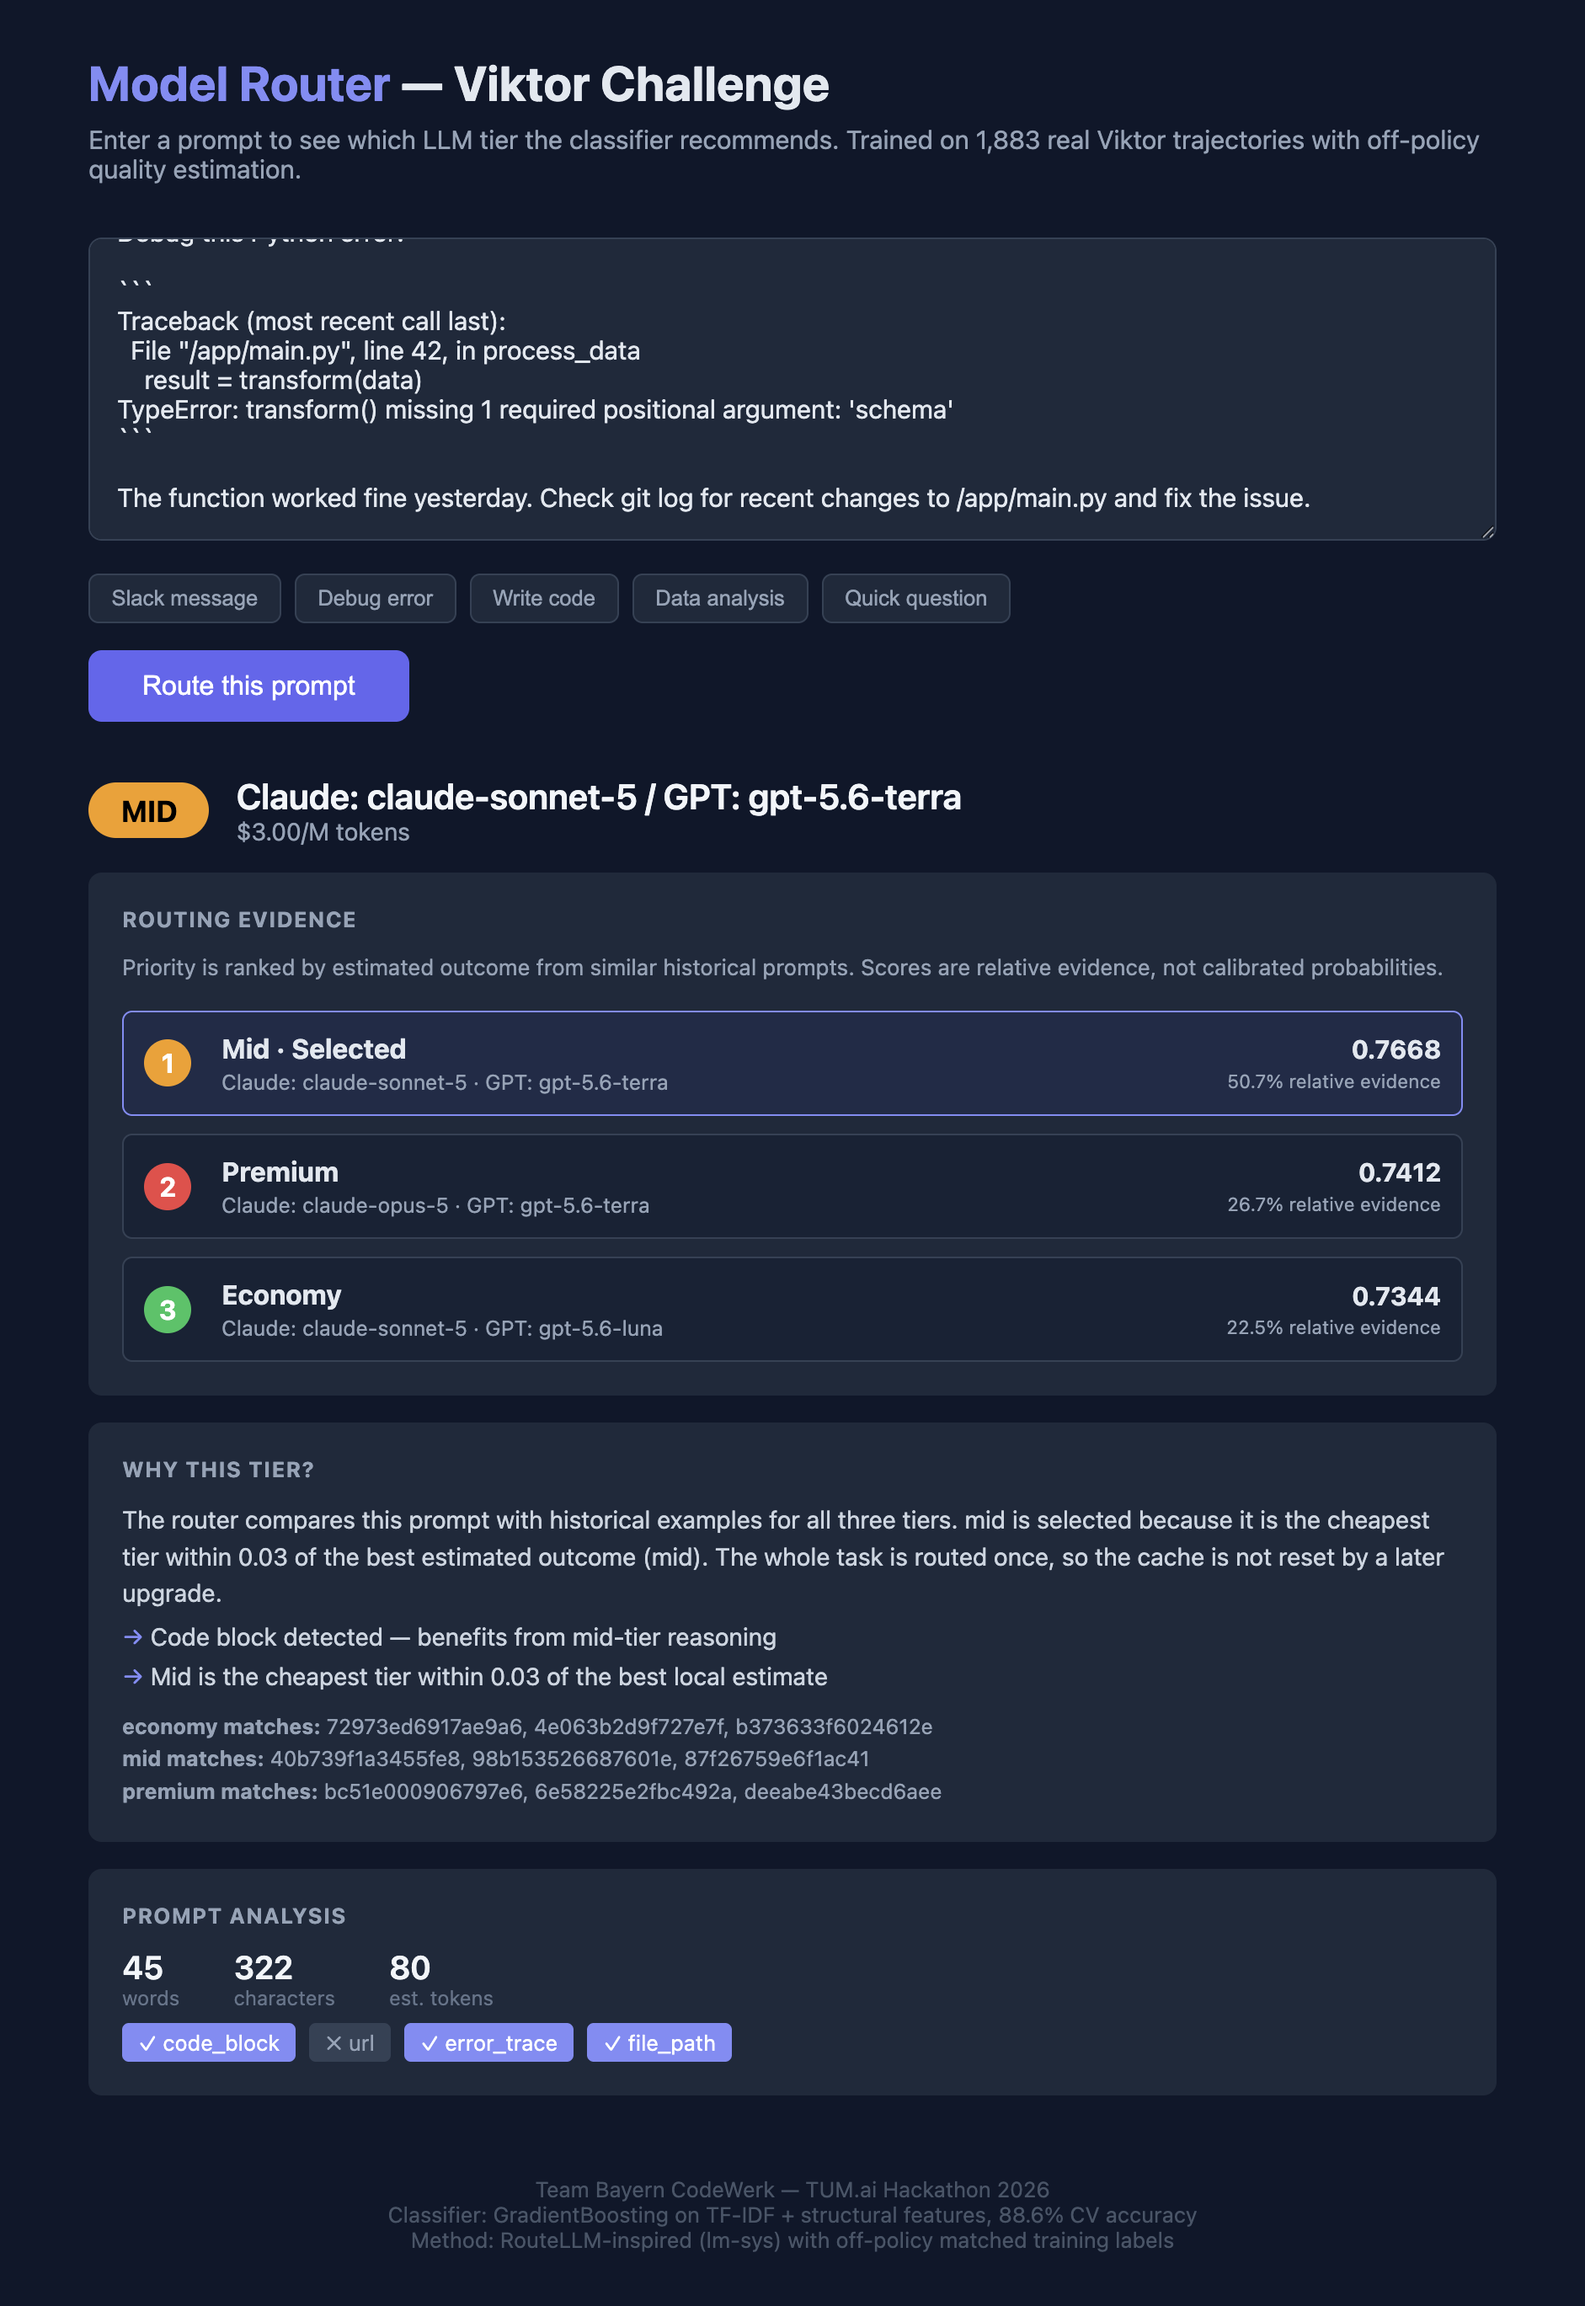
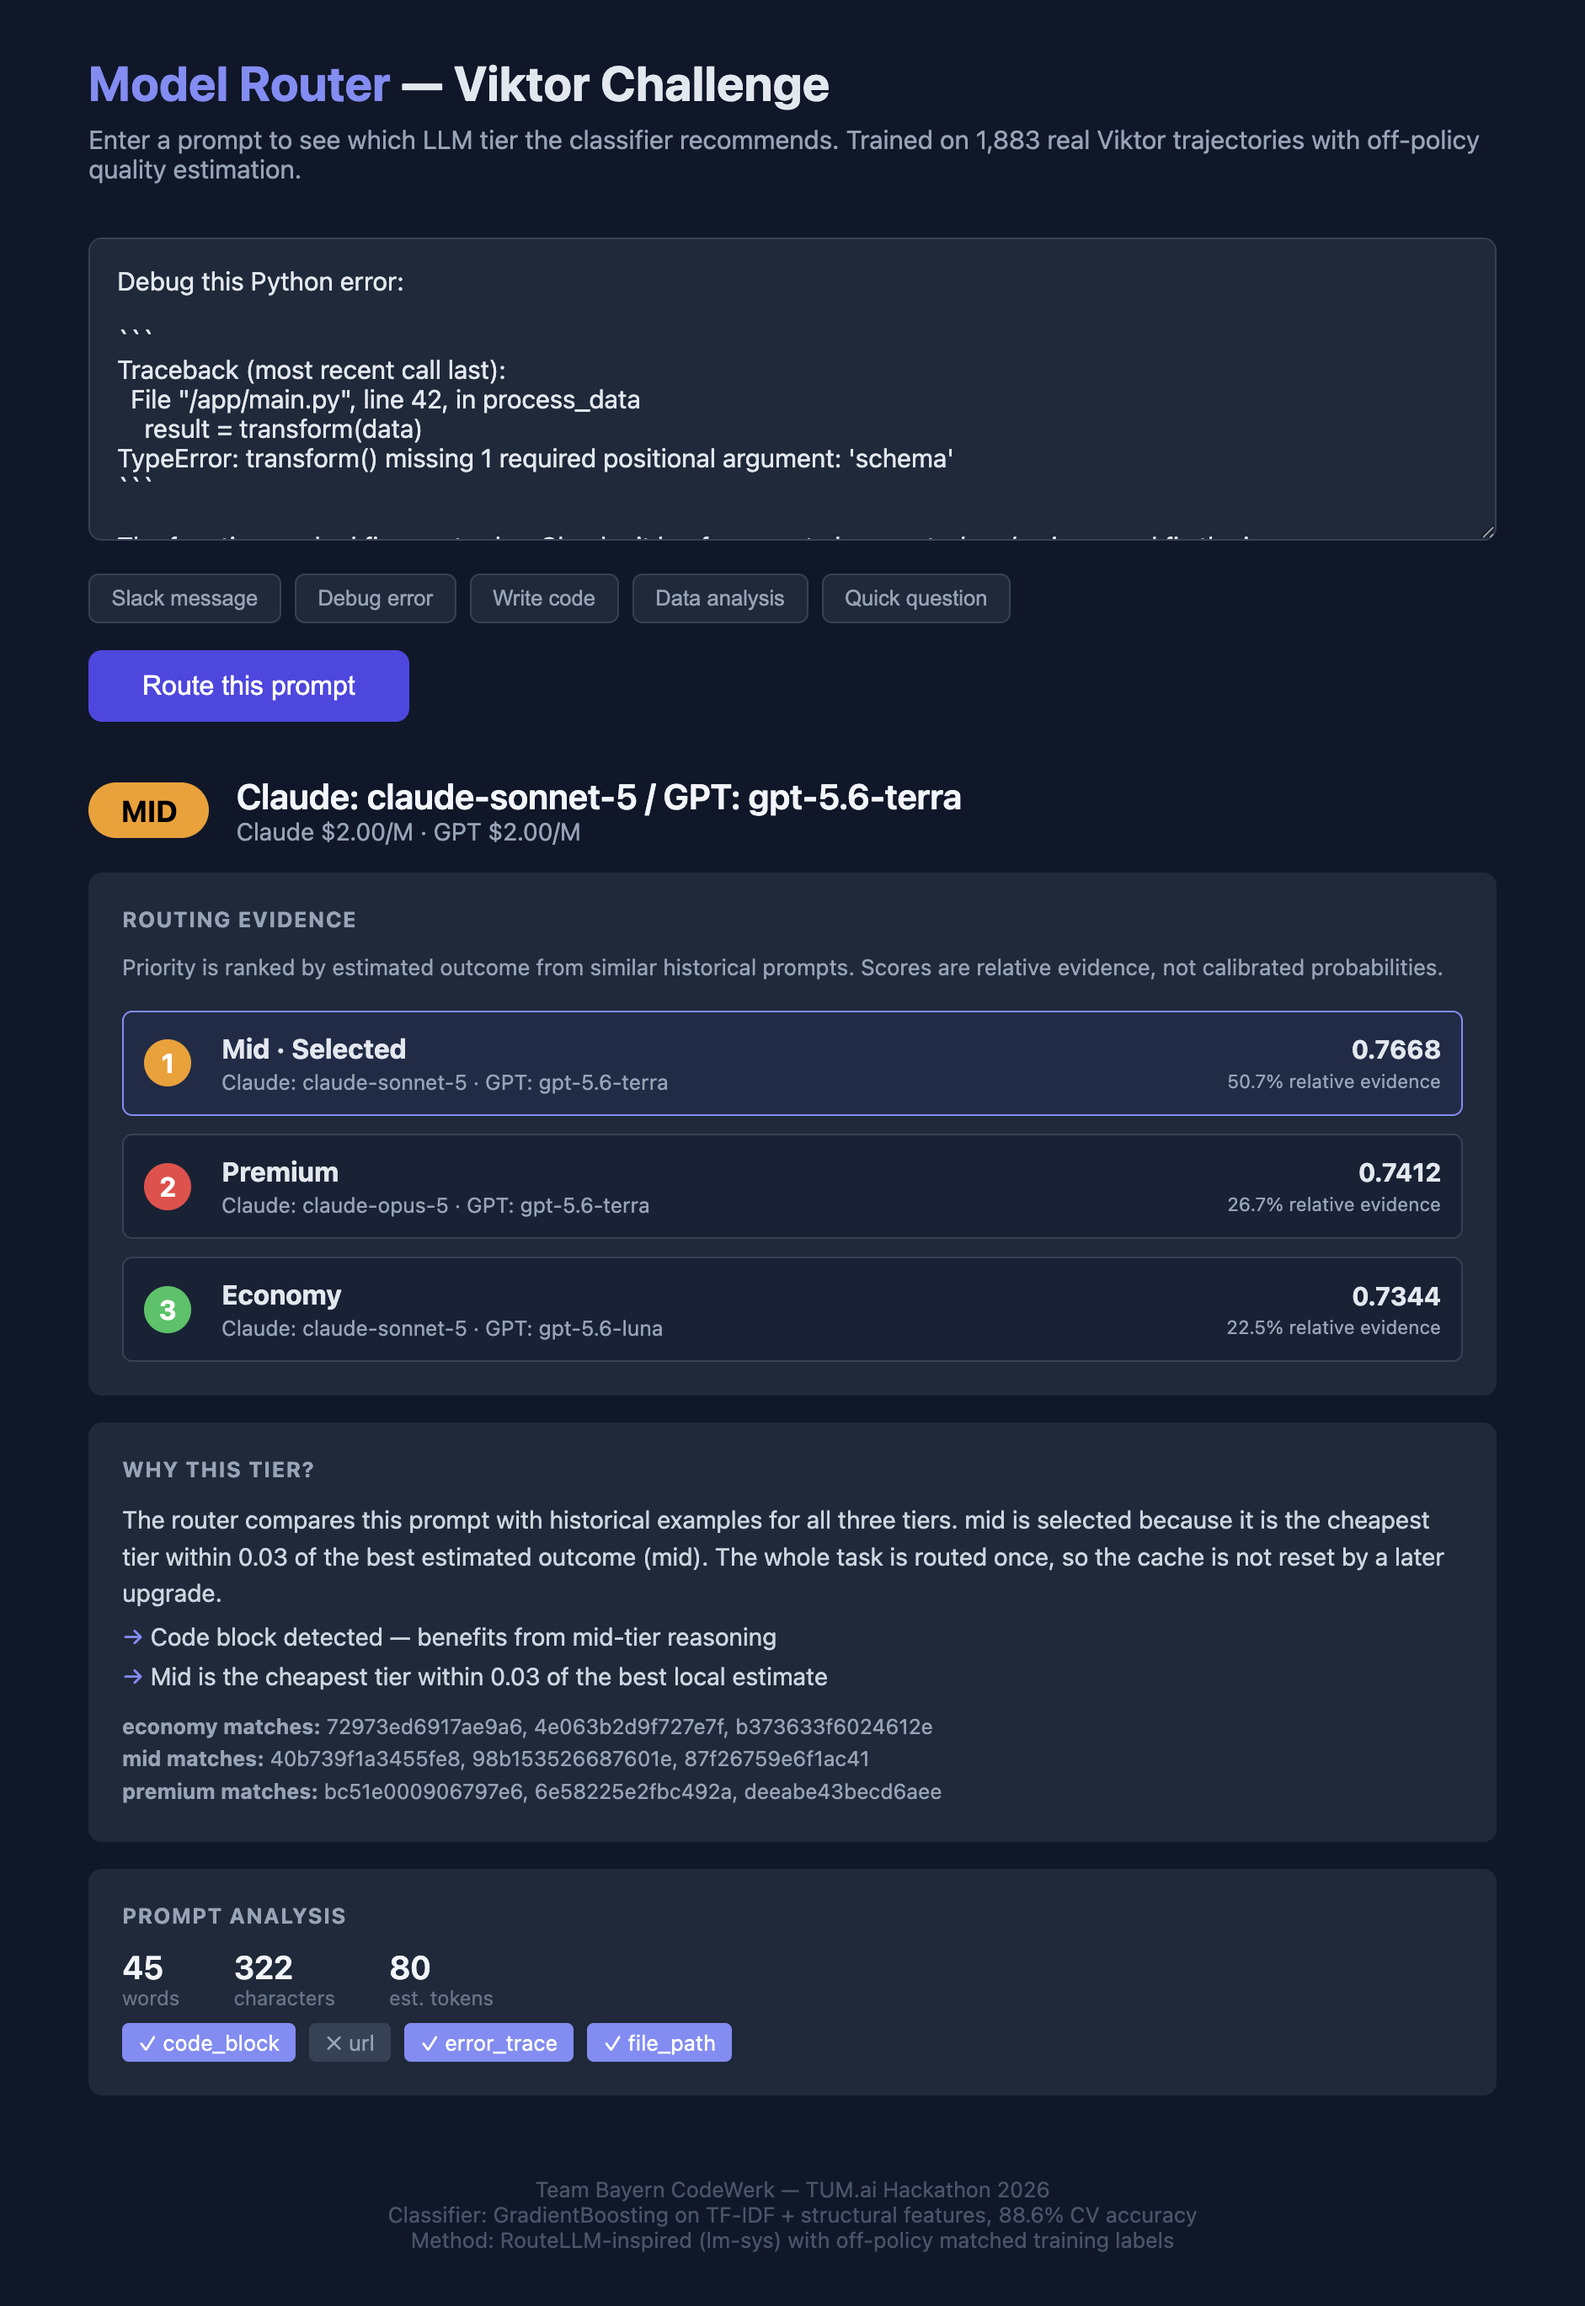
Add professional router documentation and visuals

diff --git a/scripts/router_ui.py b/scripts/router_ui.py
@@ -318,7 +318,11 @@ const EXAMPLES = {
   simple: "What time is our standup meeting tomorrow?"
 };
 
-const COSTS = {economy: "$0.80/M tokens", mid: "$3.00/M tokens", premium: "$15.00/M tokens"};
+const COSTS = {
+  economy: "Claude $2.00/M · GPT $0.20/M",
+  mid: "Claude $2.00/M · GPT $2.00/M",
+  premium: "Claude $5.00/M · GPT $2.00/M"
+};
 const COLORS = {economy: "#22c55e", mid: "#f59e0b", premium: "#ef4444"};
 
 function setExample(key) {

diff --git a/README.md b/README.md
@@ -1,26 +1,30 @@
 # Viktor Model Router
 
-Starter kit for the **Viktor Challenge** at the TUM.ai hackathon (Munich, 22–23 Aug 2026).
-From real LLM-request logs, build a router that picks the right model for every call —
-then prove it works, even though the log shows only the model that ran, and no outputs or token counts.
+An explainable, offline model router for the Viktor challenge. It learns from
+historical request trajectories, estimates which tier is safest for a new prompt,
+and makes one whole-trajectory decision before execution.
+
+![Initial router UI](docs/router-ui-initial.png)
+
+![Explainable routing result](docs/router-ui.png)
+
+The initial view accepts a prompt. The routed view ranks all three tiers, shows
+the model candidates, gives the estimated outcome for each, and lists the
+historical trajectories used as evidence.
 
 ## Quick start
 
 ```bash
-# 1. No dataset yet? Generate a synthetic sample with the same shape:
+# Optional: generate a synthetic sample if no challenge export is available:
 python3 scripts/make_synthetic_sample.py            # writes ./export/
 
-# 2. Got the real dataset links (shipped at kickoff)? Then instead: the export ships
-#    as trajectories_v1_<index>.jsonl.tar.gz archives — download, verify the posted
-#    SHA-256, then:  mkdir -p export && tar xzf trajectories_v1_01.jsonl.tar.gz -C export/
-
-# 3. Sanity-check the export, reconstruct trajectories, print stats:
+# Inspect and reconstruct trajectories:
 python3 scripts/load_trajectories.py export/
 
-# 4. Run the baseline heuristic router + cache-aware cost report:
+# Run the original starter baseline:
 python3 scripts/baseline_router.py export/
 
-# 5. Turn results into a cost–quality frontier CSV (+ PNG if matplotlib is installed):
+# Plot the baseline frontier:
 python3 scripts/plot_frontier.py results/routes.jsonl
 ```
 
@@ -43,28 +47,31 @@ python3 scripts/routellm_classifier.py export/
 
 The trained artifact is `results/routellm_ui_model.pkl`.
 
+## Expanded evaluation
+
+On 2,000 request rows reconstructed into 1,883 trajectories, the logged
+baseline cost an estimated `$167.67`. The GitHub starter baseline cost `$147.23`
+(`12.2%` savings); this router cost `$64.59` (`61.5%` savings).
+
+![Cost comparison](docs/results_comparison.svg)
+
+See [the full results](docs/RESULTS.md) and [methodology](docs/METHODOLOGY.md)
+for assumptions, off-policy quality estimation, and limitations.
+
 Python 3.10+, standard library only (matplotlib optional for the PNG).
-
-## Using a coding agent
-
-Point Claude Code / Codex / Cursor / opencode at this repo — `AGENTS.md` briefs your agent.
-In Claude Code you also get slash commands:
-
-- `/setup` — set up everything needed to participate
-- `/make-presentation` — build a Viktor-branded presentation of your solution
-- `/prepare-submission` — package your solution into a formal submission
 
 ## What's here
 
 | Path | What |
 |---|---|
-| `AGENTS.md` | Agent briefing: dataset shape, the cache trap, judging, starter ideas |
-| `skills/` | The three guided workflows above (plain Markdown, readable by humans too) |
-| `scripts/` | Baseline router, trained RouteLLM-style router, loader, outcome signal, cache-aware cost model, frontier plot, and synthetic sample |
-| `templates/presentation.html` | Self-contained branded slide template |
+| `scripts/baseline_router.py` | Original starter baseline for comparison |
+| `scripts/router_ui.py` | Interactive explainable router |
+| `scripts/routellm_classifier.py` | Train the classifier and historical reference set |
+| `scripts/plot_frontier.py` | Generate the starter cost frontier |
+| `docs/` | Methodology, expanded-data results, chart, and UI screenshots |
 
 ## Rules that matter
 
 - **License:** challenge use only — no redistribution of the dataset. Full terms ship with the download.
 - No GPU or API keys needed. Judge-model rescoring is allowed (credits announced at kickoff).
-- Questions → the challenge Discord; the Viktor team answers there all weekend.
+- All reported costs are estimated input-token costs. Output tokens are unavailable in the export.

diff --git a/docs/RESULTS.md b/docs/RESULTS.md
@@ -1,6 +1,17 @@
 # Results
 
+![Cost comparison](results_comparison.svg)
+
+![Initial router UI](router-ui-initial.png)
+
+![Explainable routed result](router-ui.png)
+
 Evaluation uses the expanded local export: 2,000 request rows reconstructed into 1,883 trajectories.
+
+The three cost numbers answer different questions: **logged routing** is what
+actually happened in the export, the **starter baseline** is the original
+short-trajectory heuristic, and **our router** uses learned prompt features plus
+similar historical outcomes.
 
 | Strategy | Estimated input cost | Change vs logged |
 | --- | ---: | ---: |
@@ -9,6 +20,10 @@ Evaluation uses the expanded local export: 2,000 request rows reconstructed into
 | RouteLLM-style classifier | $64.59 | -61.5% |
 
 The classifier route distribution is 1,479 economy, 327 mid, and 77 premium trajectories.
+
+The UI exposes the decision instead of returning only a model name: it shows
+the three tier estimates, ranked priority, model candidates, quality gap to the
+best tier, quality tolerance, and the historical trajectory IDs used as evidence.
 
 The logged data's heuristic outcome averages are:
 
